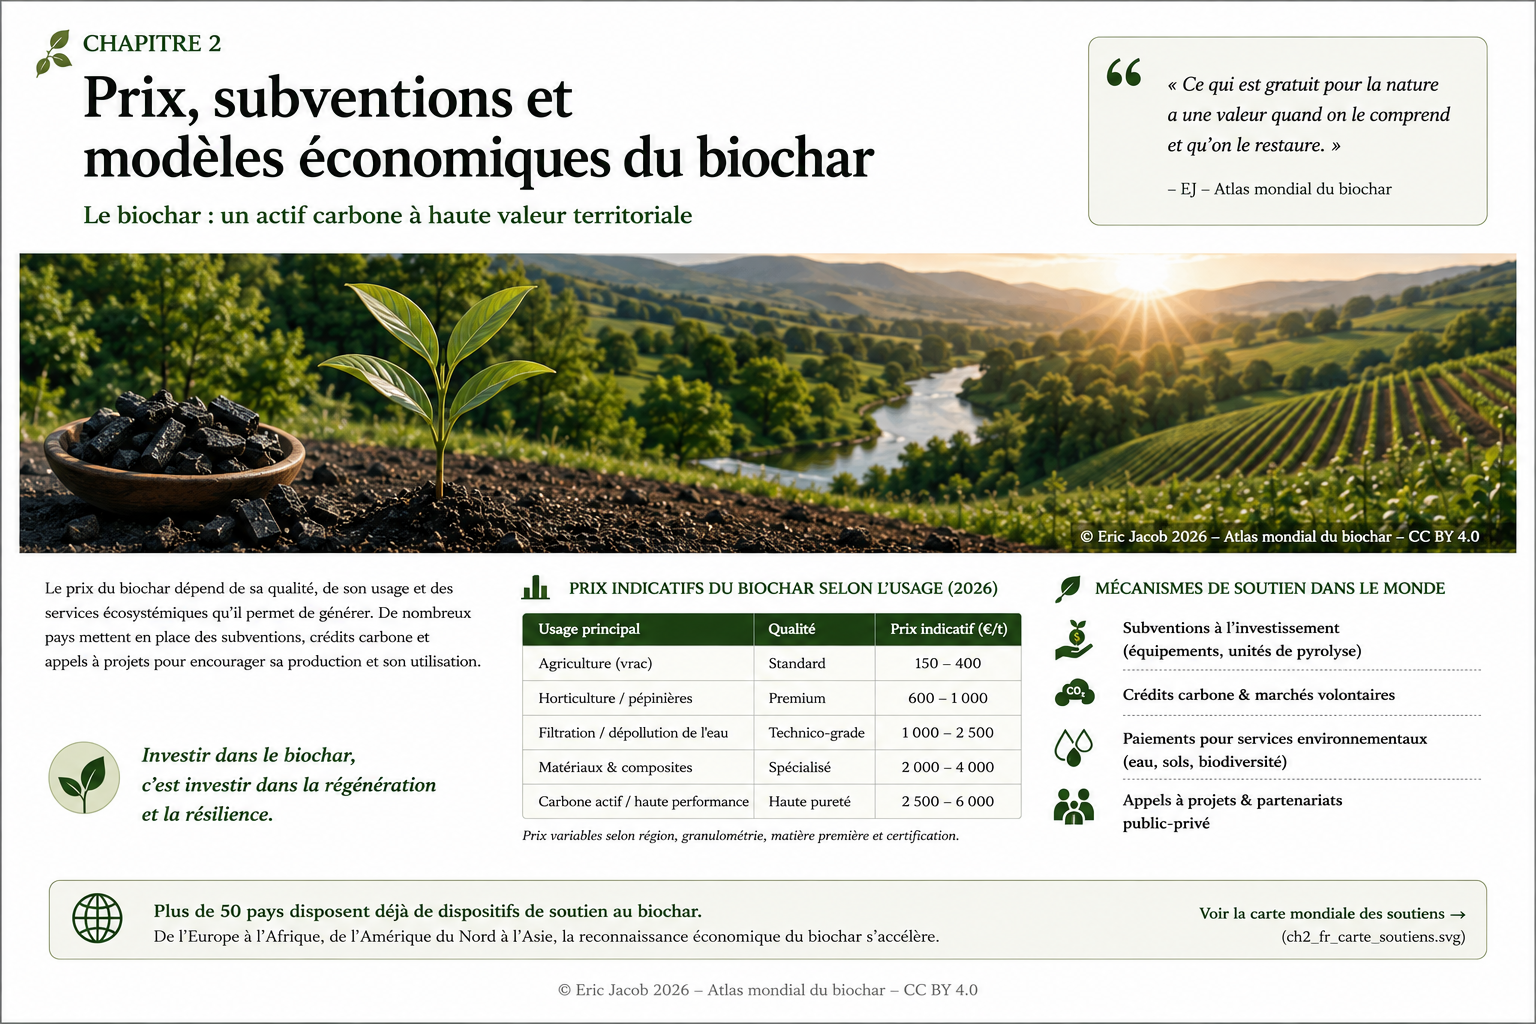
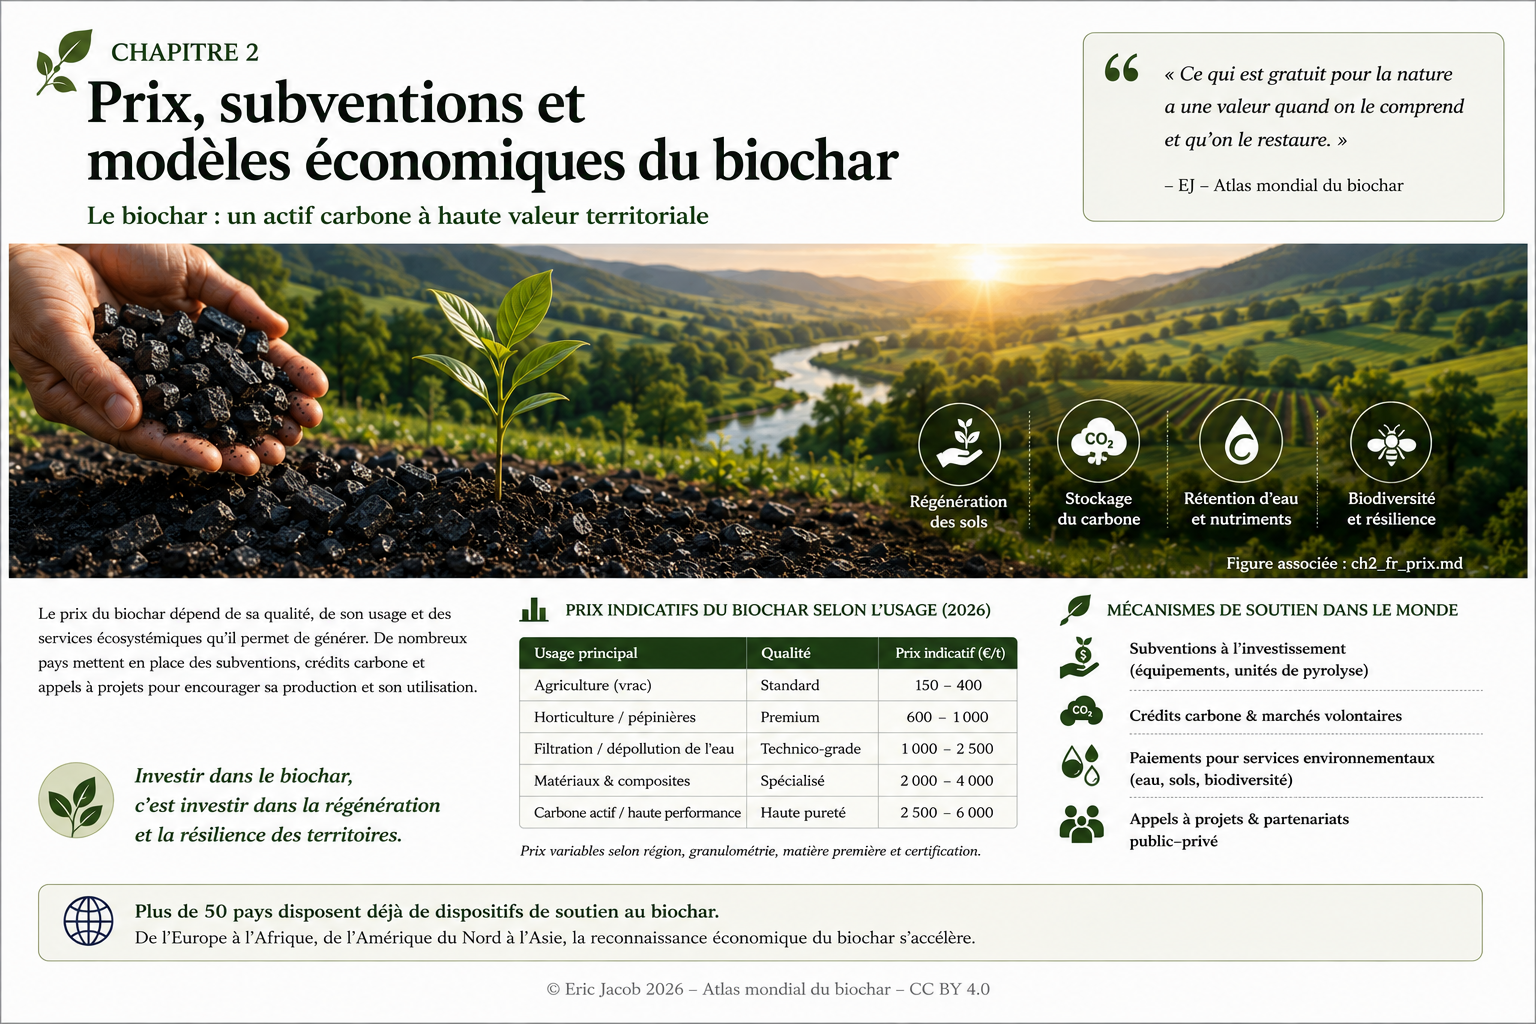
Add files via upload

diff --git a/atlas_mondial_biochars/ch2_fr_prix.md b/atlas_mondial_biochars/ch2_fr_prix.md
@@ -27,16 +27,16 @@ Comparer deux prix sans comparer la qualité et la fonction du produit conduit d
 
 <figure>
   <img src="ch2_fr_prix.png"
-       alt="Prix, subventions et modèles économiques du biochar, avec biochar, jeune plante, eau et paysage agricole régénéré"
+       alt="Infographie sur les prix, mécanismes économiques et valeur territoriale du biochar dans un paysage agricole régénéré"
        style="width:100%;height:auto;">
   <figcaption>
-    <strong>Figure 1 — Prix, soutiens et création de valeur autour du biochar.</strong>
+    <strong>Figure 1 — Prix, mécanismes économiques et création de valeur autour du biochar.</strong>
     © Eric Jacob 2026 — Atlas mondial du biochar — CC BY 4.0.
     <a href="ch2_fr_prix.png">Agrandir l’infographie</a>
   </figcaption>
 </figure>
 
-L’image donne volontairement une place importante au paysage : la valeur économique du biochar n’a de sens que si elle accompagne une valeur agronomique, hydrique, écologique ou industrielle réellement démontrée.
+L’illustration met volontairement la matière noire en relation avec ce qui donne son sens à la filière : sols vivants, végétation, eau, biodiversité et territoires. Ces bénéfices ne sont pas automatiques ; ils dépendent du produit, du sol, du climat et de l’usage.
 
 ---
 
